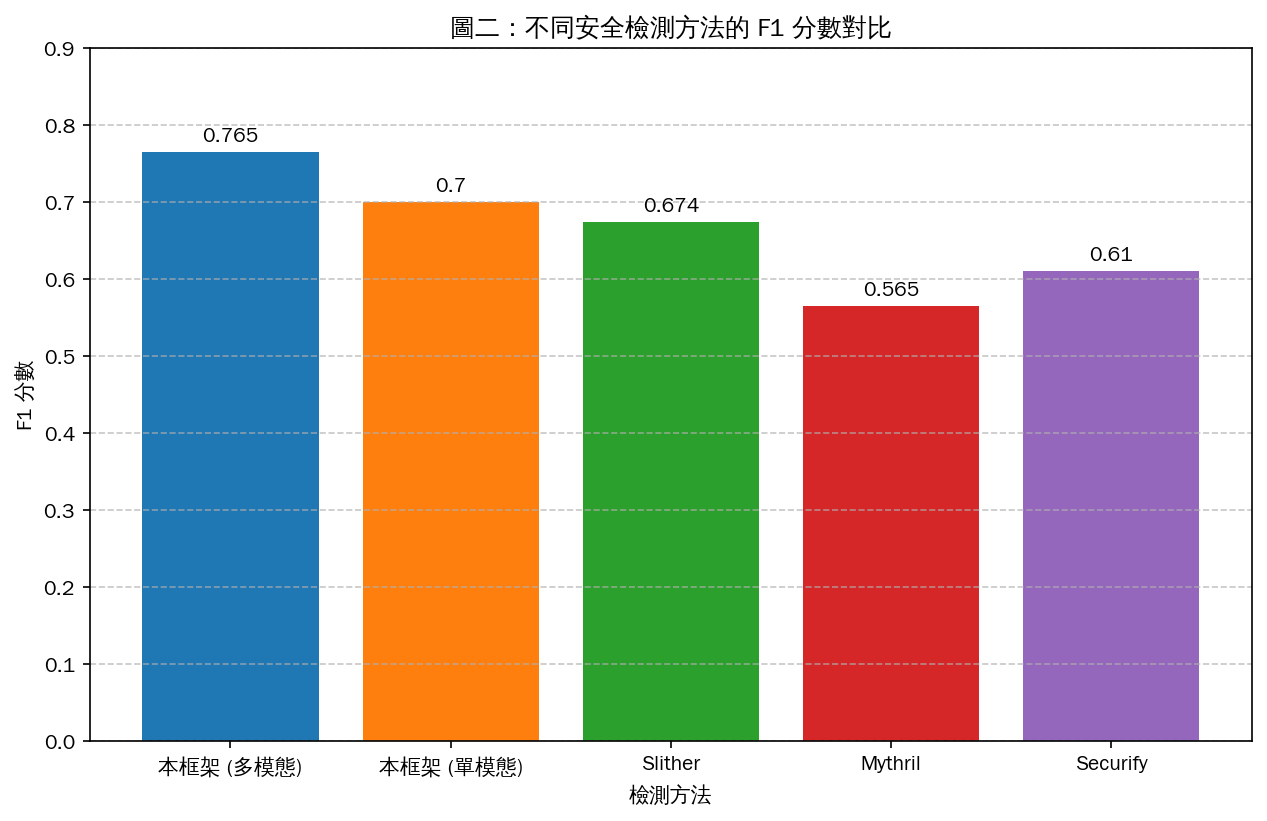
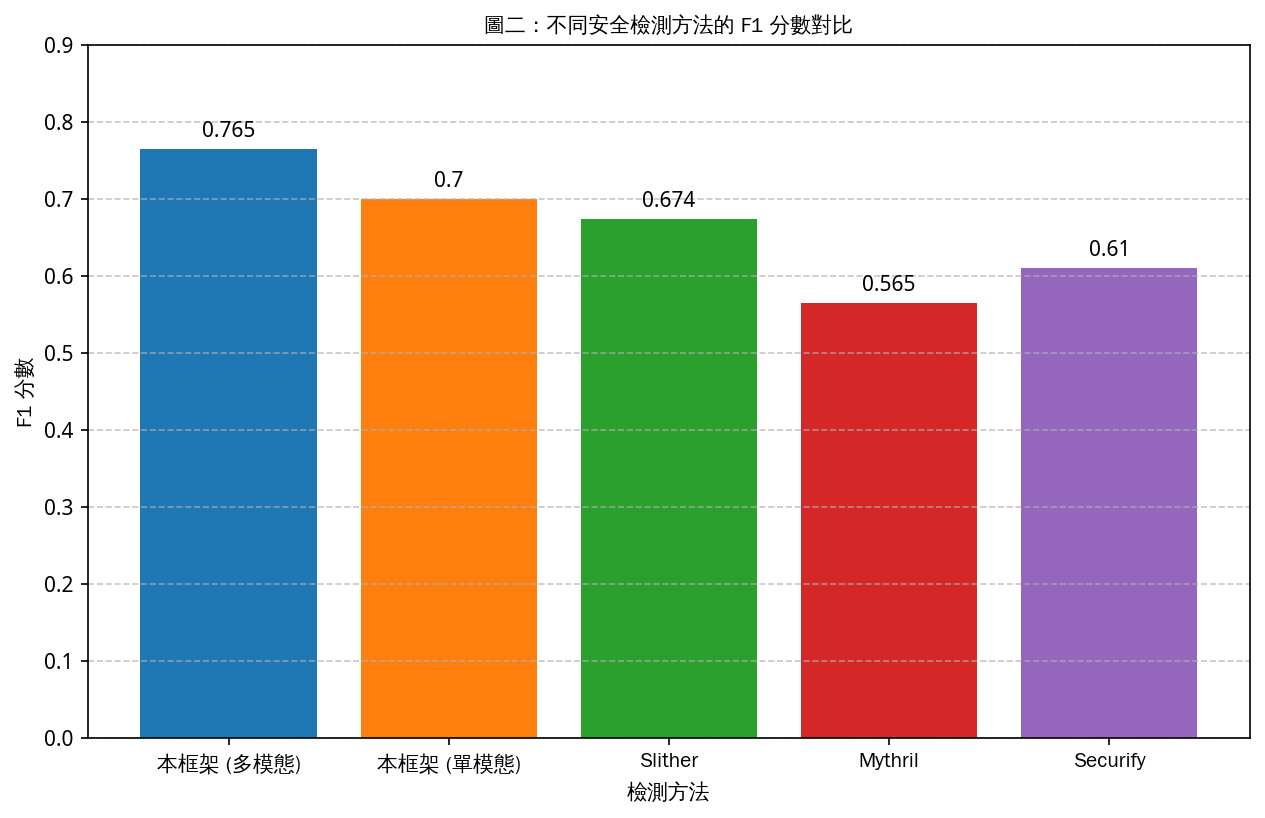
fix: Use direct font path specification to completely resolve Chinese character encoding issues

diff --git a/generate_charts.py b/generate_charts.py
@@ -1,13 +1,18 @@
 import matplotlib
-matplotlib.use('Agg')  # 使用非交互式後端
+matplotlib.use('Agg')
 import matplotlib.pyplot as plt
+import matplotlib.font_manager as fm
 import pandas as pd
 import numpy as np
 import os
 
-# 配置中文字體
-plt.rcParams['font.sans-serif'] = ['WenQuanYi Zen Hei', 'DejaVu Sans']
-plt.rcParams['axes.unicode_minus'] = False  # 解決負號顯示問題
+# 直接指定字體路徑
+FONT_PATH = '/usr/share/fonts/truetype/wqy/wqy-zenhei.ttc'
+if os.path.exists(FONT_PATH):
+    my_font = fm.FontProperties(fname=FONT_PATH)
+else:
+    my_font = fm.FontProperties(family='sans-serif') # Fallback
+    print(f"Warning: Font file not found at {FONT_PATH}. Using default sans-serif font.")
 
 # 確保結果目錄存在
 RESULTS_DIR = os.path.join(os.path.dirname(os.path.abspath(__file__)), "results")
@@ -17,29 +22,26 @@ os.makedirs(RESULTS_DIR, exist_ok=True)
 def generate_f1_score_chart():
     """生成圖二：不同安全檢測方法的 F1 分數對比"""
     
-    # 論文中提供的數據 (表一)
     data = {
         "方法": ["本框架 (多模態)", "本框架 (單模態)", "Slither", "Mythril", "Securify"],
         "F1 分數": [0.765, 0.700, 0.674, 0.565, 0.610]
     }
     df = pd.DataFrame(data)
     
-    # 繪圖
     plt.figure(figsize=(10, 6))
     bars = plt.bar(df["方法"], df["F1 分數"], color=['#1f77b4', '#ff7f0e', '#2ca02c', '#d62728', '#9467bd'])
     
-    # 添加數值標籤
     for bar in bars:
         yval = bar.get_height()
         plt.text(bar.get_x() + bar.get_width()/2, yval + 0.01, round(yval, 3), ha='center', va='bottom')
 
     plt.ylim(0.0, 0.9)
-    plt.title("圖二：不同安全檢測方法的 F1 分數對比")
-    plt.ylabel("F1 分數")
-    plt.xlabel("檢測方法")
+    plt.title("圖二：不同安全檢測方法的 F1 分數對比", fontproperties=my_font)
+    plt.ylabel("F1 分數", fontproperties=my_font)
+    plt.xlabel("檢測方法", fontproperties=my_font)
+    plt.xticks(fontproperties=my_font)
     plt.grid(axis='y', linestyle='--', alpha=0.7)
     
-    # 儲存圖片
     chart_path = os.path.join(RESULTS_DIR, "Figure_2_F1_Score_Comparison.png")
     plt.savefig(chart_path, dpi=150, bbox_inches='tight')
     plt.close()
@@ -50,42 +52,36 @@ def generate_f1_score_chart():
 def generate_processing_time_chart():
     """生成圖四：不同規模合約的處理時間與不同方法的吞吐量對比"""
     
-    # 模擬數據 (基於論文描述)
-    # 處理時間 (左軸)
-    contract_sizes = [50, 100, 200, 400, 800] # 行數
-    framework_time = [0.15, 0.25, 0.45, 0.85, 1.5] # 秒
-    slither_time = [0.05, 0.08, 0.12, 0.20, 0.35] # 秒 (更快)
+    contract_sizes = [50, 100, 200, 400, 800]
+    framework_time = [0.15, 0.25, 0.45, 0.85, 1.5]
+    slither_time = [0.05, 0.08, 0.12, 0.20, 0.35]
     
-    # 吞吐量 (右軸)
     methods = ["本框架", "Slither", "Mythril"]
-    throughput = [6000, 15000, 10000] # 合約/小時
+    throughput = [6000, 15000, 10000]
     
-    # 繪圖 - 處理時間 (左軸)
     fig, ax1 = plt.subplots(figsize=(10, 6))
     
     ax1.plot(contract_sizes, framework_time, marker='o', label='本框架 (處理時間)', color='blue')
     ax1.plot(contract_sizes, slither_time, marker='s', label='Slither (處理時間)', color='green')
-    ax1.set_xlabel("合約規模 (行數)")
-    ax1.set_ylabel("平均處理時間 (秒)", color='blue')
+    ax1.set_xlabel("合約規模 (行數)", fontproperties=my_font)
+    ax1.set_ylabel("平均處理時間 (秒)", color='blue', fontproperties=my_font)
     ax1.tick_params(axis='y', labelcolor='blue')
     ax1.grid(axis='y', linestyle='--', alpha=0.5)
-    ax1.legend(loc='upper left')
+    ax1.legend(loc='upper left', prop=my_font)
     
-    # 繪圖 - 吞吐量 (右軸)
     ax2 = ax1.twinx()
     bar_width = 50
-    x_pos = [200, 400, 600] # 錯開位置
+    x_pos = [200, 400, 600]
     
     bars = ax2.bar(x_pos, throughput, bar_width, alpha=0.6, color='red', label='吞吐量 (合約/小時)')
-    ax2.set_ylabel("吞吐量 (合約/小時)", color='red')
+    ax2.set_ylabel("吞吐量 (合約/小時)", color='red', fontproperties=my_font)
     ax2.tick_params(axis='y', labelcolor='red')
     ax2.set_xticks(x_pos)
-    ax2.set_xticklabels(methods)
-    ax2.legend(loc='upper right')
+    ax2.set_xticklabels(methods, fontproperties=my_font)
+    ax2.legend(loc='upper right', prop=my_font)
     
-    plt.title("圖四：不同規模合約的處理時間與不同方法的吞吐量對比")
+    plt.title("圖四：不同規模合約的處理時間與不同方法的吞吐量對比", fontproperties=my_font)
     
-    # 儲存圖片
     chart_path = os.path.join(RESULTS_DIR, "Figure_4_Processing_Time_Throughput.png")
     plt.savefig(chart_path, dpi=150, bbox_inches='tight')
     plt.close()
